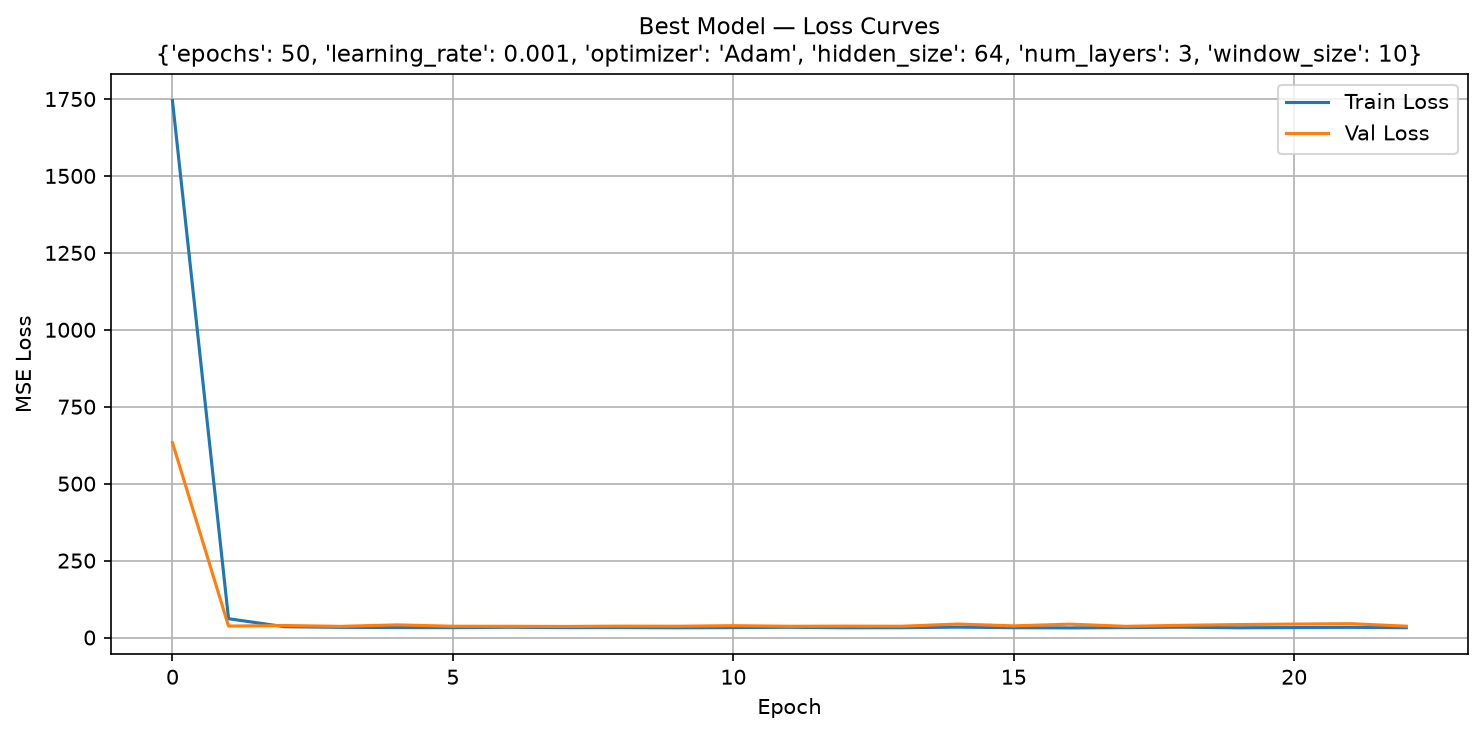
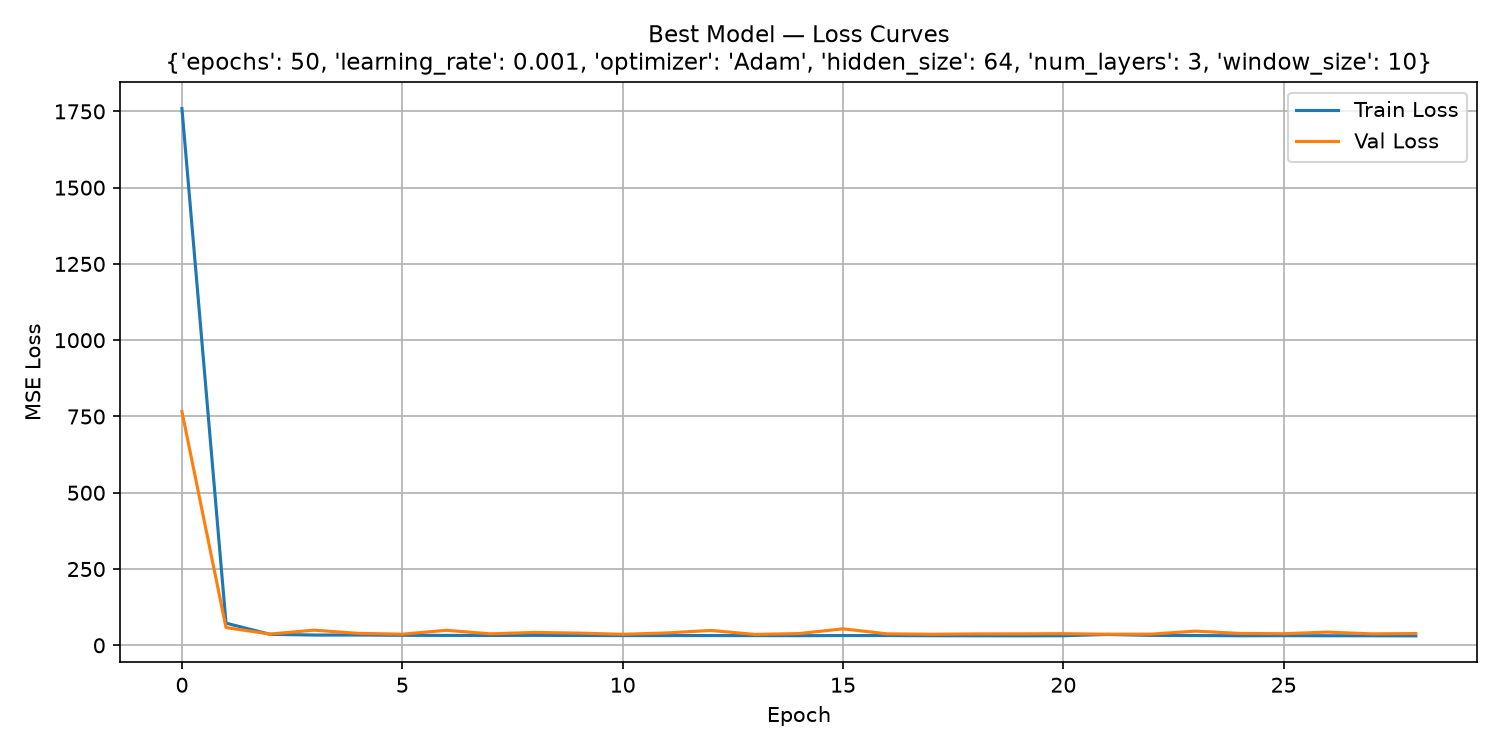
ai-note72: update v11 window-length search to select by validation loss
- Inline code: train_trial returns 5 values incl. best_val_loss; test set graded once after winner chosen
- Winner chosen with min(val_loss) instead of max(r2)
- Results table sorted by val_loss ascending
- Updated What-you-should-see table and commentary with a real 20-trial run
- Updated figure captions; regenerated v11 loss, predictions and val-loss bar chart
- Replaced time_11.py in Folder-AI-Forecast.zip with local val_loss version

Changed region(s): [[0.0, 0.03, 0.9926, 0.9292], [0.4963, 0.9292, 0.5583, 0.9891]]

diff --git a/notes/ai-note72.html b/notes/ai-note72.html
@@ -163,36 +163,52 @@
     window length.
   </p>
 
-  <h3>3. Train and grade each combination</h3>
+  <h3>3. Train each combination and keep its validation score</h3>
   <pre class="code-block"><code>for i, combo in enumerate(sampled):
     cfg = dict(zip(keys, combo))
-    model, t_losses, v_losses, test_loader = train_trial(cfg)
-    r2, mae, rmse, preds, actuals = evaluate(model, test_loader)</code></pre>
+    model, t_losses, v_losses, trial_val_loss, test_loader = train_trial(cfg)
+
+    row = {**cfg, "val_loss": trial_val_loss, "actual_epochs": len(t_losses)}
+    results.append(row)</code></pre>
   <p>
     The configuration now carries six values, for example
     <code>{"epochs": 50, "learning_rate": 0.001, ..., "window_size": 10}</code>. This dictionary is
     stored in <code>cfg</code>, short for <strong>configuration</strong>: one complete set of
-    settings for a single trial. Training works as in version 9: a trial stops early if the
-    validation error does not improve for 10 epochs, and the weights that gave the lowest validation
-    error are kept. A trial that stops improving therefore ends early instead of running to the
-    maximum number of epochs. The test loader comes back out of <code>train_trial</code> only
-    because it was built for that trial's window.
+    settings for a single trial. <code>train_trial</code> now returns <em>five</em> things: the
+    model, its training and validation loss curves, the best validation loss seen during training,
+    and the test loader built for that trial's window. We record the validation score in the
+    results row but do <em>not</em> call <code>evaluate</code> on the test set inside the loop. Each
+    trial is graded on validation data only, so the test set stays hidden until the winner is
+    chosen.
+  </p>
+  <p>
+    Training works as in version 9: a trial stops early if the validation error does not improve
+    for 15 epochs (<code>EARLY_STOP_PATIENCE = 15</code>), and the weights that gave the lowest
+    validation error are kept. A trial that stops improving therefore ends early instead of running
+    to the maximum number of epochs. The test loader comes back out of <code>train_trial</code> only
+    because it was built for that trial's window; it is not used yet.
   </p>
 
-  <h3>4. Keep the winner and write the files</h3>
-  <pre class="code-block"><code>if r2 &gt; best_r2:
-    best_r2    = r2
+  <h3>4. Pick the winner by validation loss, then grade it honestly</h3>
+  <pre class="code-block"><code>if trial_val_loss &lt; best_val_loss:
+    best_val_loss = trial_val_loss
     best_trial = {"cfg": cfg, "model": model, ...}
+
+# Evaluate once on the test set after the winner is chosen
+r2, mae, rmse, preds, actuals = evaluate(best_trial["model"], best_trial["test_loader"])
 
 torch.save(best_trial["model"].state_dict(), "best_model.pt")
 results_df.to_excel("search_results.xlsx", index_label="Rank")</code></pre>
   <p>
-    At the end, five files appear in the folder. <code>best_model.pt</code> holds the winning
-    weights, <code>search_results.xlsx</code> holds all twenty trials ranked by R&sup2; with a
-    <code>window_size</code> column that version 10 did not have, and three charts are saved as
-    <code>best_model_loss.png</code>, <code>best_model_predictions.png</code> and
-    <code>trial_r2_chart.png</code>. The spreadsheet is still the useful one, because it keeps
-    every trial, not only the winner.
+    <code>best_val_loss</code> starts at positive infinity, so the first trial always becomes the
+    benchmark and later trials must <em>lower</em> it to replace it. Only after that decision is
+    final does the script call <code>evaluate</code> once on the test set &mdash; the same test days
+    that no trial has looked at until now. At the end, five files appear in the folder.
+    <code>best_model.pt</code> holds the winning weights, <code>search_results.xlsx</code> holds all
+    twenty trials ranked by validation loss with a <code>window_size</code> column that version 10
+    did not have, and three charts are saved as <code>best_model_loss.png</code>,
+    <code>best_model_predictions.png</code> and <code>trial_val_loss_chart.png</code>. The
+    spreadsheet is still the useful one, because it keeps every trial, not only the winner.
   </p>
 
   <h2>What you should see</h2>
@@ -202,54 +218,61 @@ results_df.to_excel("search_results.xlsx", index_label="Rank")</code></pre>
   </p>
   <pre class="code-block no-copy"><code>Running 20 random trials...
 
-Trial   Win  Epochs      LR      Opt  Hidden  Layers        R2        RMSE
+Trial   Win  Epochs      LR      Opt  Hidden  Layers      Val Loss
 ------------------------------------------------------------------------------
-    1    30     200   0.001     Adam      10       2    0.4358      5.3364
-    2    30      50    0.01     Adam      10       2    0.4138      5.4394
-    3    20      50   0.001     Adam      64       1    0.4241      5.4350
-    4    50     200    0.01     Adam      10       1    0.4365      5.3207
-    5    20      50     0.1      SGD      64       2  -419.3689    146.8400
-    6    30      50     0.1     Adam      64       3   -86.7436     66.5462
-    7    10      50     0.1     Adam      32       1    0.4351      5.4060
-    8    30      50    0.01     Adam      64       3    0.4424      5.3048
-    9    30     200   0.001  RMSprop      64       3    0.3956      5.5230
-   10    10      50   0.001  RMSprop      64       3    0.4566      5.3021
-   11    10     200   0.001      SGD      10       3  -312.0232    127.2510
-   12    30     200    0.01     Adam      10       1    0.4389      5.3215
-   13    20     200     0.1      SGD      32       1  -835.4003    207.1267
-   14    30     100     0.1     Adam      32       2    0.4367      5.3317
-   15    20      50   0.001  RMSprop      32       2    0.4163      5.4716
-   16    10     100     0.1      SGD      64       2  -363.2989    137.2783
-   17    10     100    0.01     Adam      10       1    0.4372      5.3959
-   18    10      50   0.001     Adam      64       3    0.4573      5.2983
-   19    30      50   0.001     Adam      64       2    0.4389      5.3216
-   20    50      50   0.001  RMSprop      32       3    0.4393      5.3073
+    1    30     200   0.001     Adam      10       2       38.8653
+    2    30      50    0.01     Adam      10       2       38.1330
+    3    20      50   0.001     Adam      64       1       37.3501
+    4    50     200    0.01     Adam      10       1       39.2846
+    5    20      50     0.1      SGD      64       2           inf
+    6    30      50     0.1     Adam      64       3       38.4867
+    7    10      50     0.1     Adam      32       1       37.4087
+    8    30      50    0.01     Adam      64       3       38.1892
+    9    30     200   0.001  RMSprop      64       3       40.5453
+   10    10      50   0.001  RMSprop      64       3       36.7209
+   11    10     200   0.001      SGD      10       3           inf
+   12    30     200    0.01     Adam      10       1       37.9963
+   13    20     200     0.1      SGD      32       1     2929.5016
+   14    30     100     0.1     Adam      32       2       38.3152
+   15    20      50   0.001  RMSprop      32       2       38.1311
+   16    10     100     0.1      SGD      64       2           inf
+   17    10     100    0.01     Adam      10       1       37.3275
+   18    10      50   0.001     Adam      64       3       35.7390
+   19    30      50   0.001     Adam      64       2       38.3012
+   20    50      50   0.001  RMSprop      32       3       40.7830
 
 Best model saved → best_model.pt
 Best config : {'epochs': 50, 'learning_rate': 0.001, 'optimizer': 'Adam', 'hidden_size': 64, 'num_layers': 3, 'window_size': 10}
-Best R²     : 0.4573  |  MAE: 4.2199  |  RMSE: 5.2983
+Best validation MSE: 35.7390
+Test R²: 0.4542  |  MAE: 4.2441  |  RMSE: 5.3134
 Results table saved → search_results.xlsx</code></pre>
   <p>
     <strong>The winner looks back only ten days.</strong> Trial 18 &mdash; 50 epochs, learning rate
-    0.001, Adam, 64 hidden units, 3 layers, window 10 &mdash; scored R&sup2; 0.4573 with MAE 4.2199
-    and RMSE 5.2983. The runner-up, trial 10, also used a window of 10 and was almost identical:
-    0.4566. That is our first real answer to the question the search was asked. On this data, the
-    short look-back wins.
+    0.001, Adam, 64 hidden units, 3 layers, window 10 &mdash; gave the lowest validation loss,
+    35.7390. The runner-up, trial 10, also used a window of 10 (validation loss 36.7209). That is
+    our first real answer to the question the search was asked. On this data, the short look-back
+    wins.
   </p>
   <p>
-    <strong>The gain over version 10 is small.</strong> Version 10's best was 0.4511 and version
-    11's is 0.4573, and part of that difference is luck of the draw rather than a better idea.
+    Only after the winner is fixed does the script touch the test days: R&sup2; 0.4542, MAE 4.2441
+    and RMSE 5.3134. Those numbers are the honest score, because no trial competed on them.
   </p>
-  <figure class="exhibit"><img src="/images/forecast-v11-loss.png" alt="Loss curves of the winning trial, dropping sharply at the first epoch and then flattening with the training and validation lines almost on top of each other" style="max-width:100%; height:auto;"><figcaption>Loss curves of the winning trial. Training ended at epoch 23 of the 50 allowed, because early stopping had seen no improvement for 15 epochs.</figcaption></figure>
-  <figure class="exhibit"><img src="/images/forecast-v11-predictions.png" alt="Actual test-day sales in pale grey and predicted values as a smooth red line following the upward trend but missing the daily swings" style="max-width:100%; height:auto;"><figcaption>Actual (grey) and predicted (red) values over the 218 test days with a window of 10. The model tracks the trend and smooths away the noise.</figcaption></figure>
-  <figure class="exhibit"><img src="/images/forecast-v11-r2-bar.png" alt="Bar chart of R squared across twenty trials sorted from best to worst, the positive bars squeezed against the zero line and a red dashed line marking the best score" style="max-width:100%; height:auto;"><figcaption>R&sup2; across all twenty trials, sorted best to worst. The five bars that plunge far below zero on the right are drawn to scale, which is why the good trials are squeezed against the zero line.</figcaption></figure>
+  <p>
+    <strong>The gain over version 10 is small.</strong> Version 10's best test score was R&sup2;
+    0.4471 and version 11's is 0.4542, and part of that difference is luck of the draw rather than a
+    better idea. Three trials report <code>inf</code>: the loss exploded and never came back, so
+    there is nothing to rank.
+  </p>
+  <figure class="exhibit"><img src="/images/forecast-v11-loss.png" alt="Loss curves of the winning trial, dropping sharply at the first epoch and then flattening with the training and validation lines almost on top of each other" style="max-width:100%; height:auto;"><figcaption>Loss curves of the winning trial. Training ended at epoch 29 of the 50 allowed, because early stopping had seen no improvement for 15 epochs.</figcaption></figure>
+  <figure class="exhibit"><img src="/images/forecast-v11-predictions.png" alt="Actual test-day sales in pale grey and predicted values as a smooth red line following the trend but missing the daily swings" style="max-width:100%; height:auto;"><figcaption>Actual (grey) and predicted (red) values over the 218 test days with a window of 10. The model tracks the trend and smooths away the noise.</figcaption></figure>
+  <figure class="exhibit"><img src="/images/forecast-v11-r2-bar.png" alt="Bar chart of validation loss across twenty trials, all the good trials almost invisible against the bottom because one diverged trial rises to nearly three thousand" style="max-width:100%; height:auto;"><figcaption>Validation loss across all twenty trials, sorted best to worst, with the best marked green. One diverged trial on the right reaches almost 3,000, which flattens every good trial against the red best-score line; the three trials with infinite loss have no bar at all.</figcaption></figure>
 
   <h2>The whole program</h2>
   <p>
     The pieces above, put back together. This is the complete file:
   </p>
   <pre class="code-block"><code>import os
-os.environ["KMP_DUPLICATE_LIB_OK"] = "TRUE"
+os.environ[&quot;KMP_DUPLICATE_LIB_OK&quot;] = &quot;TRUE&quot;
 
 import torch
 import torch.nn as nn
@@ -269,20 +292,20 @@ torch.manual_seed(SEED)
 
 # ── Search space ─────────────────────────────────────────────────────────────
 SEARCH_SPACE = {
-    "epochs":       [50, 100, 200],
-    "learning_rate":[0.001, 0.01, 0.1],
-    "optimizer":    ["Adam", "SGD", "RMSprop"],
-    "hidden_size":  [10, 32, 64],
-    "num_layers":   [1, 2, 3],
-    "window_size":  [10, 20, 30, 50],
+    &quot;epochs&quot;:       [50, 100, 200],
+    &quot;learning_rate&quot;:[0.001, 0.01, 0.1],
+    &quot;optimizer&quot;:    [&quot;Adam&quot;, &quot;SGD&quot;, &quot;RMSprop&quot;],
+    &quot;hidden_size&quot;:  [10, 32, 64],
+    &quot;num_layers&quot;:   [1, 2, 3],
+    &quot;window_size&quot;:  [10, 20, 30, 50],
 }
 N_TRIALS            = 20
 EARLY_STOP_PATIENCE = 15
 BATCH_SIZE          = 32
 
 # ── Data ─────────────────────────────────────────────────────────────────────
-df = pd.read_csv("time_series.csv")
-series = df["series"].values
+df = pd.read_csv(&quot;time_series.csv&quot;)
+series = df[&quot;series&quot;].values
 series_tensor = torch.tensor(series, dtype=torch.float32)
 
 def make_loaders(window_size):
@@ -298,7 +321,7 @@ def make_loaders(window_size):
     test_loader  = DataLoader(Subset(full_dataset, range(val_end, total)),   batch_size=BATCH_SIZE, shuffle=False)
     return train_loader, val_loader, test_loader
 
-device = torch.device("cuda" if torch.cuda.is_available() else "cpu")
+device = torch.device(&quot;cuda&quot; if torch.cuda.is_available() else &quot;cpu&quot;)
 
 # ── Model factory ─────────────────────────────────────────────────────────────
 def build_model(input_size, hidden_size, num_layers):
@@ -311,21 +334,21 @@ def build_model(input_size, hidden_size, num_layers):
     return nn.Sequential(*layers).to(device)
 
 def get_optimizer(name, params, lr):
-    return {"Adam": optim.Adam, "SGD": optim.SGD, "RMSprop": optim.RMSprop}[name](params, lr=lr)
+    return {&quot;Adam&quot;: optim.Adam, &quot;SGD&quot;: optim.SGD, &quot;RMSprop&quot;: optim.RMSprop}[name](params, lr=lr)
 
 # ── Train one trial ───────────────────────────────────────────────────────────
 def train_trial(cfg):
-    train_loader, val_loader, test_loader = make_loaders(cfg["window_size"])
-    model     = build_model(cfg["window_size"] - 1, cfg["hidden_size"], cfg["num_layers"])
+    train_loader, val_loader, test_loader = make_loaders(cfg[&quot;window_size&quot;])
+    model     = build_model(cfg[&quot;window_size&quot;] - 1, cfg[&quot;hidden_size&quot;], cfg[&quot;num_layers&quot;])
     criterion = nn.MSELoss()
-    optimizer = get_optimizer(cfg["optimizer"], model.parameters(), cfg["learning_rate"])
+    optimizer = get_optimizer(cfg[&quot;optimizer&quot;], model.parameters(), cfg[&quot;learning_rate&quot;])
 
-    best_val_loss = float("inf")
+    best_val_loss = float(&quot;inf&quot;)
     best_state    = {k: v.clone() for k, v in model.state_dict().items()}
     patience_ctr  = 0
     train_losses, val_losses = [], []
 
-    for epoch in range(cfg["epochs"]):
+    for epoch in range(cfg[&quot;epochs&quot;]):
         # train
         model.train()
         t_loss = 0
@@ -360,7 +383,7 @@ def train_trial(cfg):
                 break
 
     model.load_state_dict(best_state)
-    return model, train_losses, val_losses, test_loader
+    return model, train_losses, val_losses, best_val_loss, test_loader
 
 # ── Evaluate on test set ──────────────────────────────────────────────────────
 def evaluate(model, test_loader):
@@ -379,84 +402,90 @@ def evaluate(model, test_loader):
     r2 = (1 - ss_res / ss_tot).item()
     return r2, mae, rmse, preds, actuals
 
-# ── Random search ─────────────────────────────────────────────────────────────
+# ── Random search; select by validation loss ──────────────────────────────────
 keys   = list(SEARCH_SPACE.keys())
 combos = list(itertools.product(*SEARCH_SPACE.values()))
 sampled = random.sample(combos, min(N_TRIALS, len(combos)))
 
 results = []
-best_r2    = -float("inf")
+best_val_loss = float(&quot;inf&quot;)
 best_trial = None
 
-print(f"Running {N_TRIALS} random trials...\n")
-print(f"{'Trial':&gt;5}  {'Win':&gt;4}  {'Epochs':&gt;6}  {'LR':&gt;6}  {'Opt':&gt;7}  {'Hidden':&gt;6}  {'Layers':&gt;6}  {'R2':&gt;8}  {'RMSE':&gt;10}")
-print("-" * 78)
+print(f&quot;Running {N_TRIALS} random trials...\n&quot;)
+print(f&quot;{&#x27;Trial&#x27;:&gt;5}  {&#x27;Win&#x27;:&gt;4}  {&#x27;Epochs&#x27;:&gt;6}  {&#x27;LR&#x27;:&gt;6}  {&#x27;Opt&#x27;:&gt;7}  {&#x27;Hidden&#x27;:&gt;6}  {&#x27;Layers&#x27;:&gt;6}  {&#x27;Val Loss&#x27;:&gt;12}&quot;)
+print(&quot;-&quot; * 78)
 
 for i, combo in enumerate(sampled):
     cfg = dict(zip(keys, combo))
-    model, t_losses, v_losses, test_loader = train_trial(cfg)
-    r2, mae, rmse, preds, actuals = evaluate(model, test_loader)
+    model, t_losses, v_losses, trial_val_loss, test_loader = train_trial(cfg)
 
-    row = {**cfg, "r2": round(r2, 4), "mae": round(mae, 4), "rmse": round(rmse, 4),
-           "actual_epochs": len(t_losses)}
+    row = {**cfg, &quot;val_loss&quot;: trial_val_loss, &quot;actual_epochs&quot;: len(t_losses)}
     results.append(row)
 
-    print(f"{i+1:&gt;5}  {cfg['window_size']:&gt;4}  {cfg['epochs']:&gt;6}  {cfg['learning_rate']:&gt;6}  "
-          f"{cfg['optimizer']:&gt;7}  {cfg['hidden_size']:&gt;6}  {cfg['num_layers']:&gt;6}  "
-          f"{r2:&gt;8.4f}  {rmse:&gt;10.4f}")
+    print(f&quot;{i+1:&gt;5}  {cfg[&#x27;window_size&#x27;]:&gt;4}  {cfg[&#x27;epochs&#x27;]:&gt;6}  {cfg[&#x27;learning_rate&#x27;]:&gt;6}  &quot;
+          f&quot;{cfg[&#x27;optimizer&#x27;]:&gt;7}  {cfg[&#x27;hidden_size&#x27;]:&gt;6}  {cfg[&#x27;num_layers&#x27;]:&gt;6}  &quot;
+          f&quot;{trial_val_loss:&gt;12.4f}&quot;)
 
-    if r2 &gt; best_r2:
-        best_r2    = r2
-        best_trial = {"cfg": cfg, "model": model, "t_losses": t_losses,
-                      "v_losses": v_losses, "preds": preds, "actuals": actuals,
-                      "r2": r2, "mae": mae, "rmse": rmse}
+    if trial_val_loss &lt; best_val_loss:
+        best_val_loss = trial_val_loss
+        best_trial = {&quot;cfg&quot;: cfg, &quot;model&quot;: model, &quot;t_losses&quot;: t_losses,
+                      &quot;v_losses&quot;: v_losses, &quot;val_loss&quot;: trial_val_loss,
+                      &quot;test_loader&quot;: test_loader}
+
+# ── Evaluate the selected model on the test set once ─────────────────────────
+r2, mae, rmse, preds, actuals = evaluate(best_trial[&quot;model&quot;], best_trial[&quot;test_loader&quot;])
+best_trial.update({&quot;r2&quot;: r2, &quot;mae&quot;: mae, &quot;rmse&quot;: rmse,
+                   &quot;preds&quot;: preds, &quot;actuals&quot;: actuals})
 
 # ── Save best model ───────────────────────────────────────────────────────────
-torch.save(best_trial["model"].state_dict(), "best_model.pt")
-print(f"\nBest model saved → best_model.pt")
-print(f"Best config : {best_trial['cfg']}")
-print(f"Best R²     : {best_trial['r2']:.4f}  |  MAE: {best_trial['mae']:.4f}  |  RMSE: {best_trial['rmse']:.4f}")
+torch.save(best_trial[&quot;model&quot;].state_dict(), &quot;best_model.pt&quot;)
+print(f&quot;\nBest model saved → best_model.pt&quot;)
+print(f&quot;Best config : {best_trial[&#x27;cfg&#x27;]}&quot;)
+print(f&quot;Best validation MSE: {best_val_loss:.4f}&quot;)
+print(f&quot;Test R²: {r2:.4f}  |  MAE: {mae:.4f}  |  RMSE: {rmse:.4f}&quot;)
 
-# ── Save results table ────────────────────────────────────────────────────────
-results_df = pd.DataFrame(results).sort_values("r2", ascending=False).reset_index(drop=True)
+# ── Save results table ranked by validation loss ─────────────────────────────
+results_df = pd.DataFrame(results).sort_values(&quot;val_loss&quot;).reset_index(drop=True)
 results_df.index += 1
-results_df.to_excel("search_results.xlsx", index_label="Rank")
-print("Results table saved → search_results.xlsx")
+results_df.to_excel(&quot;search_results.xlsx&quot;, index_label=&quot;Rank&quot;)
+print(&quot;Results table saved → search_results.xlsx&quot;)
 
 # ── Plots for best model only ─────────────────────────────────────────────────
 # 1. Loss curves
 plt.figure(figsize=(10, 5))
-plt.plot(best_trial["t_losses"], label="Train Loss")
-plt.plot(best_trial["v_losses"], label="Val Loss")
-plt.title(f"Best Model — Loss Curves\n{best_trial['cfg']}", fontsize=11)
-plt.xlabel("Epoch"); plt.ylabel("MSE Loss")
+plt.plot(best_trial[&quot;t_losses&quot;], label=&quot;Train Loss&quot;)
+plt.plot(best_trial[&quot;v_losses&quot;], label=&quot;Val Loss&quot;)
+plt.title(f&quot;Best Model — Loss Curves\n{best_trial[&#x27;cfg&#x27;]}&quot;, fontsize=11)
+plt.xlabel(&quot;Epoch&quot;); plt.ylabel(&quot;MSE Loss&quot;)
 plt.legend(); plt.grid(True)
 plt.tight_layout()
-plt.savefig("best_model_loss.png", dpi=150)
+plt.savefig(&quot;best_model_loss.png&quot;, dpi=150)
 plt.show()
 
 # 2. Predictions vs actual
 plt.figure(figsize=(12, 5))
-plt.plot(best_trial["actuals"], label="Actual",    color="lightgrey", linewidth=1.5)
-plt.plot(best_trial["preds"],   label="Predicted", color="red",       linewidth=1.5)
-plt.title(f"Best Model — Predictions vs Actual (Test Set)\nR²={best_trial['r2']:.4f}  RMSE={best_trial['rmse']:.4f}", fontsize=11)
-plt.xlabel("Time"); plt.ylabel("Value")
+plt.plot(best_trial[&quot;actuals&quot;], label=&quot;Actual&quot;,    color=&quot;lightgrey&quot;, linewidth=1.5)
+plt.plot(best_trial[&quot;preds&quot;],   label=&quot;Predicted&quot;, color=&quot;red&quot;,       linewidth=1.5)
+plt.title(f&quot;Best Model — Predictions vs Actual (Test Set)\nR²={best_trial[&#x27;r2&#x27;]:.4f}  RMSE={best_trial[&#x27;rmse&#x27;]:.4f}&quot;, fontsize=11)
+plt.xlabel(&quot;Time&quot;); plt.ylabel(&quot;Value&quot;)
 plt.legend(); plt.grid(True)
 plt.tight_layout()
-plt.savefig("best_model_predictions.png", dpi=150)
+plt.savefig(&quot;best_model_predictions.png&quot;, dpi=150)
 plt.show()
 
-# 3. R² bar chart across all trials
+# 3. Validation-loss bar chart across all trials
 plt.figure(figsize=(12, 4))
-colors = ["#4472C4" if r &lt; best_r2 else "#70AD47" for r in results_df["r2"]]
-plt.bar(results_df.index, results_df["r2"], color=colors)
-plt.axhline(best_r2, color="red", linestyle="--", linewidth=1, label=f"Best R²={best_r2:.4f}")
-plt.title("R² Across All Trials (green = best)")
-plt.xlabel("Rank"); plt.ylabel("R²")
-plt.legend(); plt.grid(axis="y", alpha=0.4)
+colors = [&quot;#70AD47&quot; if rank == 1 else &quot;#4472C4&quot; for rank in results_df.index]
+plt.bar(results_df.index, results_df[&quot;val_loss&quot;], color=colors)
+plt.axhline(best_val_loss, color=&quot;red&quot;, linestyle=&quot;--&quot;, linewidth=1,
+            label=f&quot;Best Val Loss={best_val_loss:.4f}&quot;)
+plt.title(&quot;Validation Loss Across All Trials (green = best)&quot;)
+plt.xlabel(&quot;Rank&quot;); plt.ylabel(&quot;Validation MSE Loss&quot;)
+plt.legend(); plt.grid(axis=&quot;y&quot;, alpha=0.4)
 plt.tight_layout()
-plt.savefig("trial_r2_chart.png", dpi=150)
-plt.show()</code></pre>
+plt.savefig(&quot;trial_val_loss_chart.png&quot;, dpi=150)
+plt.show()
+</code></pre>
 
   <h2>Running it on your own computer</h2>
   <p>
